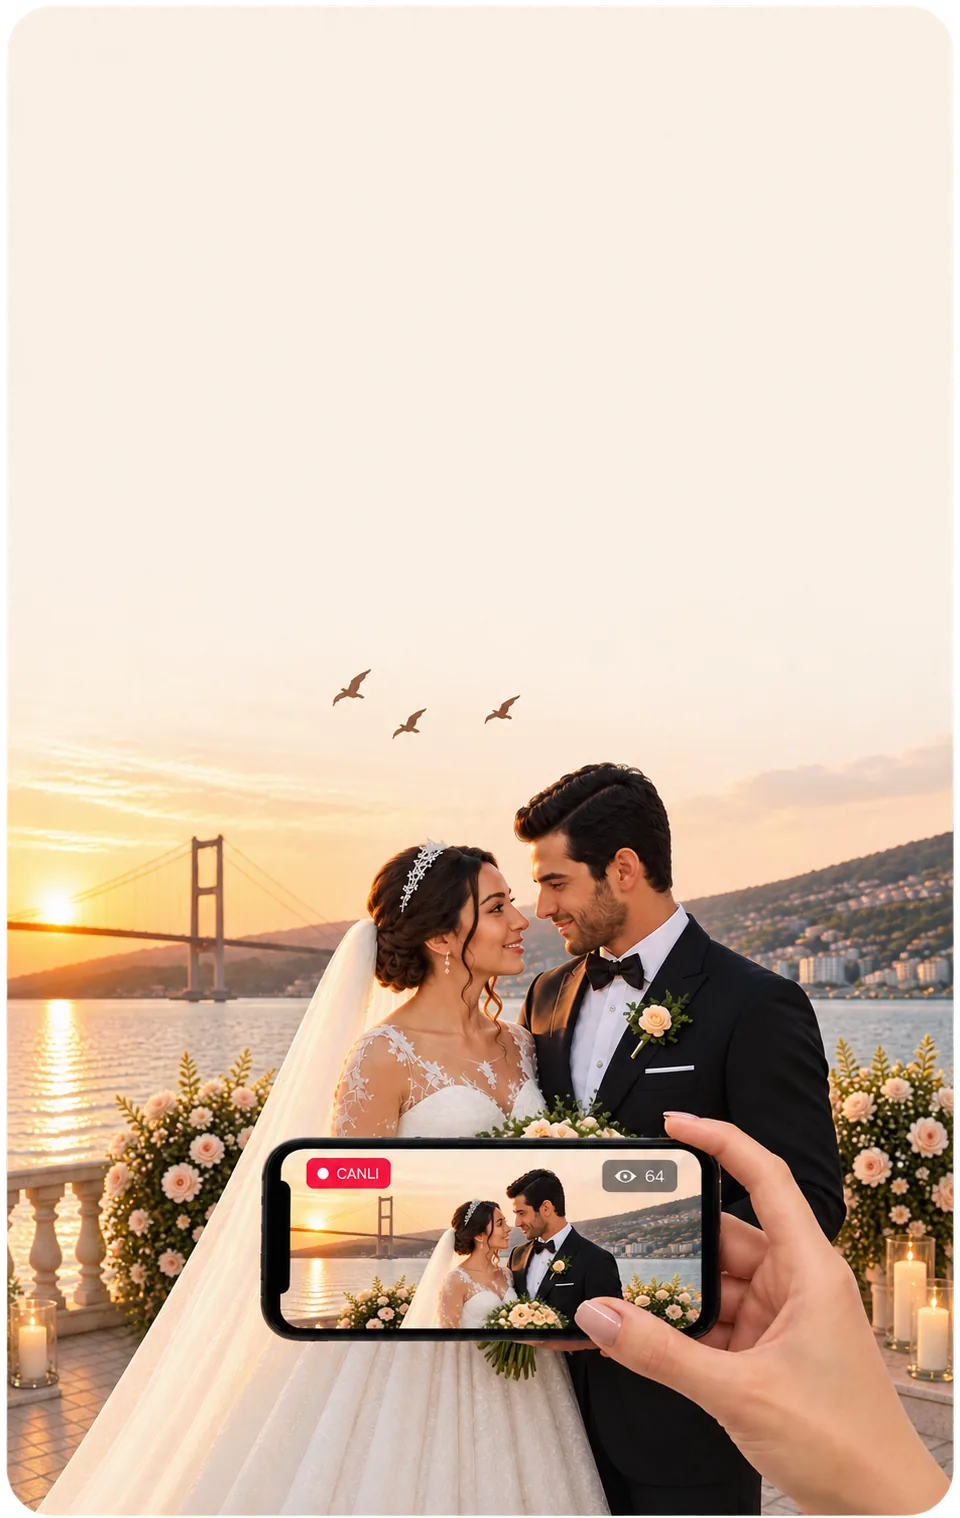
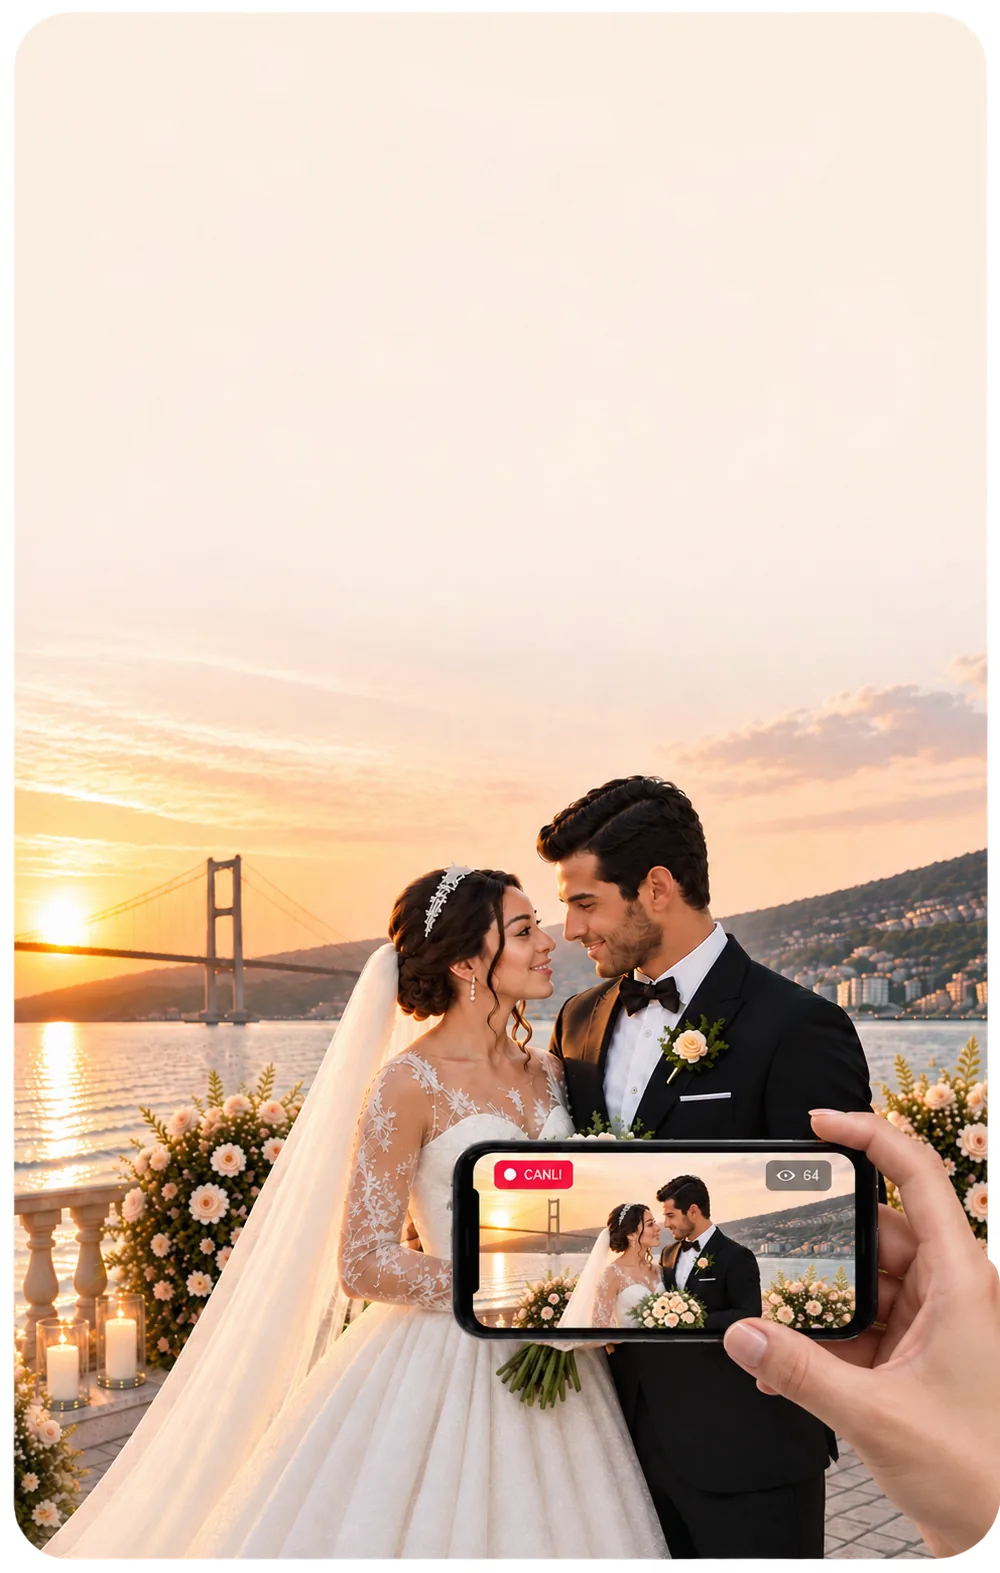
Masa ikon yerleşimi + Tebrik açıklama + yeni Canlı görseli
- Masa mobil: ikonlar tam-genişlik yayıldı (1. sabit sol, 2-3 sağa), Kolay Düzenleme tek satır
- Neden Nikahım Tebrik 2. cümle: 'uygulama üzerinden'
- Canlı Yayın mobil görsel: Seffaf 5 (webp), oran 1000/1573

diff --git a/app/page.tsx b/app/page.tsx
@@ -1021,7 +1021,7 @@ export default function Home() {
         <div className="max-w-[1340px] mx-auto px-6 space-y-16 md:space-y-20">
           {/* Canlı Yayın */}
           {/* Mobil — transparan dikey kart (doğal oran), üstte içerik */}
-          <div className="lg:hidden relative mx-auto w-full max-w-[420px]" style={{ aspectRatio: '960 / 1518' }}>
+          <div className="lg:hidden relative mx-auto w-full max-w-[420px]" style={{ aspectRatio: '1000 / 1573' }}>
             <img src="/kart-canli-t.webp" alt="Canlı Yayın ile mutluluğunuzu paylaşın" loading="lazy" decoding="async" className="absolute inset-0 w-full h-full object-contain pointer-events-none select-none" style={{ filter: 'drop-shadow(0 16px 38px rgba(72,47,42,0.10))' }} />
             <div className="absolute inset-x-0 top-0" style={{ padding: 'clamp(22px,6.2vw,30px) clamp(24px,6.5vw,32px) 0' }}>
               <div className="mb-[clamp(8px,2.6vw,12px)]"><FeatureBadge label="CANLI YAYIN" live /></div>
@@ -1324,15 +1324,15 @@ export default function Home() {
               <h3 className="leading-[1.1] mt-1" style={{ fontFamily: 'var(--font-playfair)', color: '#1F1F1F', fontWeight: 600, fontSize: 'clamp(15px, 4.4vw, 34px)' }}>zahmetsizce hazır.</h3>
               <div className="mt-[clamp(6px,2.2vw,10px)]" style={{ width: 'clamp(38px, 9vw, 64px)', height: '2px', background: '#C8686E', borderRadius: '2px' }} />
               <p className="mt-[clamp(6px,2.2vw,10px)] leading-relaxed text-[clamp(11px,3.3vw,13px)]" style={{ color: '#6E5A5A' }}>Davetlilerinizi ekleyin. Akıllı planlayıcı, herkes için en uygun masa düzenini oluştursun.</p>
-              <div className="flex flex-row justify-between gap-1 mt-[clamp(9px,3.4vw,20px)]" style={{ marginRight: 'clamp(20px,9vw,44px)' }}>
+              <div className="flex flex-row justify-between items-start mt-[clamp(9px,3.4vw,20px)]">
                 {[
                   { label: 'Akıllı Yerleşim', icon: <svg className="w-[clamp(15px,4.3vw,17px)] h-[clamp(15px,4.3vw,17px)]" fill="none" stroke="currentColor" strokeWidth={1.8} viewBox="0 0 24 24"><path strokeLinecap="round" strokeLinejoin="round" d="M12 2.5l1.8 5.2 5.2 1.8-5.2 1.8L12 16.5l-1.8-5.2L5 9.5l5.2-1.8z" /></svg> },
                   { label: 'Davetli Yönetimi', icon: <svg className="w-[clamp(15px,4.3vw,17px)] h-[clamp(15px,4.3vw,17px)]" fill="none" stroke="currentColor" strokeWidth={1.8} viewBox="0 0 24 24"><path strokeLinecap="round" strokeLinejoin="round" d="M17 20h5v-2a4 4 0 00-3-3.87M9 20H4v-2a4 4 0 013-3.87m6-3.13a4 4 0 100-8 4 4 0 000 8zm6 0a3 3 0 100-6 3 3 0 000 6zm-12 0a3 3 0 100-6 3 3 0 000 6z" /></svg> },
                   { label: 'Kolay Düzenleme', icon: <svg className="w-[clamp(15px,4.3vw,17px)] h-[clamp(15px,4.3vw,17px)]" fill="none" stroke="currentColor" strokeWidth={1.8} viewBox="0 0 24 24"><path strokeLinecap="round" strokeLinejoin="round" d="M5 9l-3 3 3 3M9 5l3-3 3 3M15 19l-3 3-3-3M19 9l3 3-3 3M2 12h20M12 2v20" /></svg> },
                 ].map((b, i) => (
-                  <div key={i} className="flex flex-col items-center text-center gap-1.5 flex-1">
+                  <div key={i} className="flex flex-col items-center text-center gap-1.5">
                     <span className="w-[clamp(31px,8.3vw,37px)] h-[clamp(31px,8.3vw,37px)] flex-shrink-0 grid place-items-center rounded-[11px]" style={{ background: 'rgba(255,255,255,0.9)', border: '1px solid rgba(216,101,112,0.12)', boxShadow: '0 3px 10px rgba(70,45,40,0.04)', color: '#DC6873' }}>{b.icon}</span>
-                    <span className="text-[clamp(8.6px,3vw,12.5px)] font-medium leading-tight" style={{ color: '#554F4C' }}>{b.label}</span>
+                    <span className="text-[clamp(8px,2.8vw,11.5px)] font-medium leading-tight whitespace-nowrap" style={{ color: '#554F4C' }}>{b.label}</span>
                   </div>
                 ))}
               </div>
@@ -1446,7 +1446,7 @@ export default function Home() {
             {[
               { title: 'Canlı Yayın', desc: 'Düğününüz için size özel bir yayın sayfası oluşturulur. Davetliler bağlantıya dokunarak uygulama veya üyelik gerektirmeden yayını izleyebilir. Yayın kaydınız daha sonra tekrar izlenebilir.', badges: ['Özel Yayın Sayfası', 'Uygulamasız Katılım', 'Yayın Kaydı'], icon: <svg className="w-6 h-6" fill="none" stroke="currentColor" viewBox="0 0 24 24"><path strokeLinecap="round" strokeLinejoin="round" strokeWidth={1.8} d="M15 10l4.553-2.276A1 1 0 0121 8.618v6.764a1 1 0 01-1.447.894L15 14M5 18h8a2 2 0 002-2V8a2 2 0 00-2-2H5a2 2 0 00-2 2v8a2 2 0 002 2z" /></svg> },
               { title: 'Altın Takma', desc: 'Davetliniz takmak istediği altını seçer ve güncel TL karşılığını doğrudan sizin hesabınıza gönderir. Nikahım paraya aracılık etmez ve gönderimden komisyon almaz.', badges: ['Doğrudan Hesabınıza', 'Aracısız', 'Komisyonsuz'], icon: <svg className="w-6 h-6" fill="none" stroke="currentColor" viewBox="0 0 24 24"><path strokeLinecap="round" strokeLinejoin="round" strokeWidth={1.8} d="M4 10h16M5 10L12 4l7 6M6 10v8M10 10v8M14 10v8M18 10v8M4 21h16" /></svg> },
-              { title: 'Tebrik Mesajları', desc: 'Davetlileriniz size video, sesli veya yazılı tebrik bırakabilir. Gelen tüm mesajları düğün sayfanızdan tek yerde görüntüleyebilirsiniz.', badges: ['Video', 'Sesli', 'Yazılı'], dualIcon: true, icon: <svg className="w-6 h-6" fill="none" stroke="currentColor" viewBox="0 0 24 24"><path strokeLinecap="round" strokeLinejoin="round" strokeWidth={1.8} d="M15 10l4.553-2.276A1 1 0 0121 8.618v6.764a1 1 0 01-1.447.894L15 14M5 18h8a2 2 0 002-2V8a2 2 0 00-2-2H5a2 2 0 00-2 2v8a2 2 0 002 2z" /></svg>, icon2: <svg className="w-6 h-6" fill="none" stroke="currentColor" viewBox="0 0 24 24"><path strokeLinecap="round" strokeLinejoin="round" strokeWidth={1.8} d="M19 11a7 7 0 01-7 7m0 0a7 7 0 01-7-7m7 7v4m0 0H8m4 0h4m-4-8a3 3 0 01-3-3V5a3 3 0 116 0v6a3 3 0 01-3 3z" /></svg>, icon3: <svg className="w-6 h-6" fill="none" stroke="currentColor" viewBox="0 0 24 24"><path strokeLinecap="round" strokeLinejoin="round" strokeWidth={1.8} d="M12 20h9M16.5 3.5a2.12 2.12 0 013 3L7 19l-4 1 1-4 12.5-12.5z" /></svg> },
+              { title: 'Tebrik Mesajları', desc: 'Davetlileriniz size video, sesli veya yazılı tebrik bırakabilir. Gelen tüm mesajları uygulama üzerinden tek yerde görüntüleyebilirsiniz.', badges: ['Video', 'Sesli', 'Yazılı'], dualIcon: true, icon: <svg className="w-6 h-6" fill="none" stroke="currentColor" viewBox="0 0 24 24"><path strokeLinecap="round" strokeLinejoin="round" strokeWidth={1.8} d="M15 10l4.553-2.276A1 1 0 0121 8.618v6.764a1 1 0 01-1.447.894L15 14M5 18h8a2 2 0 002-2V8a2 2 0 00-2-2H5a2 2 0 00-2 2v8a2 2 0 002 2z" /></svg>, icon2: <svg className="w-6 h-6" fill="none" stroke="currentColor" viewBox="0 0 24 24"><path strokeLinecap="round" strokeLinejoin="round" strokeWidth={1.8} d="M19 11a7 7 0 01-7 7m0 0a7 7 0 01-7-7m7 7v4m0 0H8m4 0h4m-4-8a3 3 0 01-3-3V5a3 3 0 116 0v6a3 3 0 01-3 3z" /></svg>, icon3: <svg className="w-6 h-6" fill="none" stroke="currentColor" viewBox="0 0 24 24"><path strokeLinecap="round" strokeLinejoin="round" strokeWidth={1.8} d="M12 20h9M16.5 3.5a2.12 2.12 0 013 3L7 19l-4 1 1-4 12.5-12.5z" /></svg> },
               { title: 'Fotoğraf Albümü', desc: 'Siz ve davetlileriniz telefondaki fotoğrafları aynı düğün albümüne yükleyebilirsiniz. Paylaşılan kareler çift onayından sonra albümde görüntülenir.', badges: ['Davetli Yükleme', 'Tek Albüm', 'Çift Onayı'], icon: <svg className="w-6 h-6" fill="none" stroke="currentColor" viewBox="0 0 24 24"><path strokeLinecap="round" strokeLinejoin="round" strokeWidth={1.8} d="M4 16l4.586-4.586a2 2 0 012.828 0L16 16m-2-2l1.586-1.586a2 2 0 012.828 0L20 14m-6-6h.01M6 20h12a2 2 0 002-2V6a2 2 0 00-2-2H6a2 2 0 00-2 2v12a2 2 0 002 2z" /></svg> },
               { title: 'Fotoğraf Baskısı', desc: 'Albümdeki istediğiniz fotoğrafları baskı için seçebilirsiniz. Baskı talepleri doğrudan fotoğrafçı paneline düşer ve süreç buradan takip edilir.', badges: ['Albümden Seçim', 'Baskı Talebi', 'Fotoğrafçı Paneli'], icon: <svg className="w-6 h-6" fill="none" stroke="currentColor" viewBox="0 0 24 24"><path strokeLinecap="round" strokeLinejoin="round" strokeWidth={1.8} d="M6 9V3h12v6M6 18H5a2 2 0 01-2-2v-3a2 2 0 012-2h14a2 2 0 012 2v3a2 2 0 01-2 2h-1M6 14h12v7H6z" /></svg> },
               { title: 'Akıllı Masa Planlayıcısı', desc: 'Davetli listenizi oluşturun, yakınlık ve grup tercihlerini belirleyin. Akıllı planlayıcı uygun masa dağılımını hazırlasın; istediğiniz kişileri sürükleyerek son düzenlemeleri siz yapın.', badges: ['Akıllı Yerleşim', 'Grup Tercihleri', 'Sürükle & Düzenle'], icon: <svg className="w-6 h-6" fill="none" stroke="currentColor" viewBox="0 0 24 24"><rect x="3" y="3" width="7" height="7" rx="1.5" strokeWidth={1.8} /><rect x="14" y="3" width="7" height="7" rx="1.5" strokeWidth={1.8} /><rect x="3" y="14" width="7" height="7" rx="1.5" strokeWidth={1.8} /><rect x="14" y="14" width="7" height="7" rx="1.5" strokeWidth={1.8} /></svg> },
